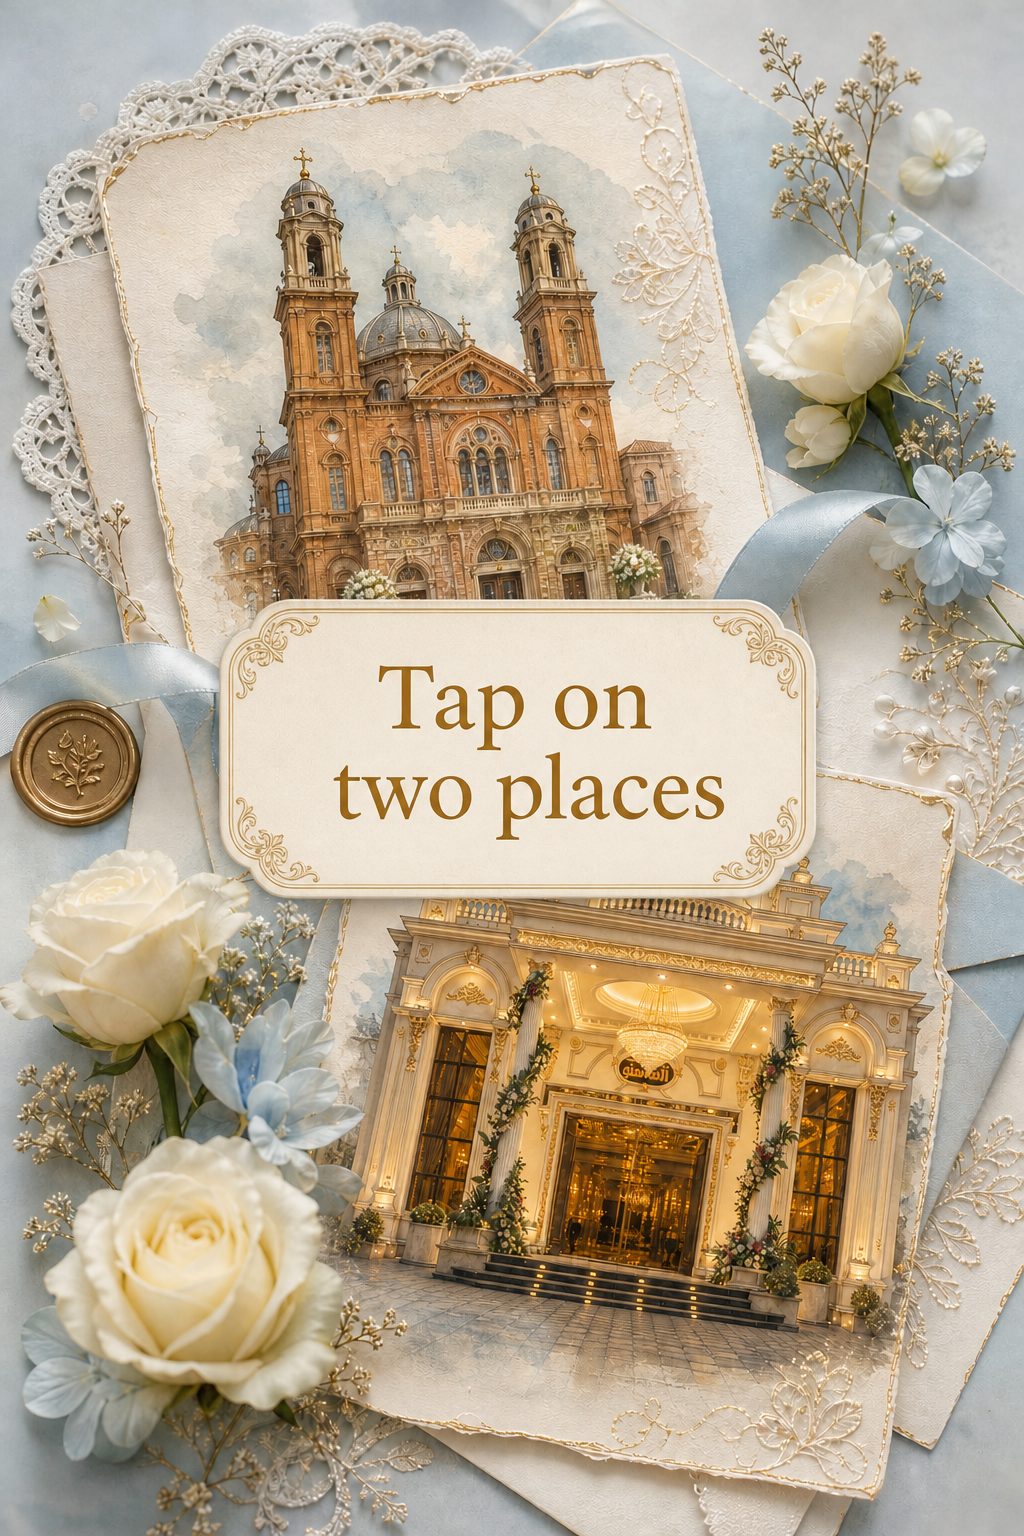
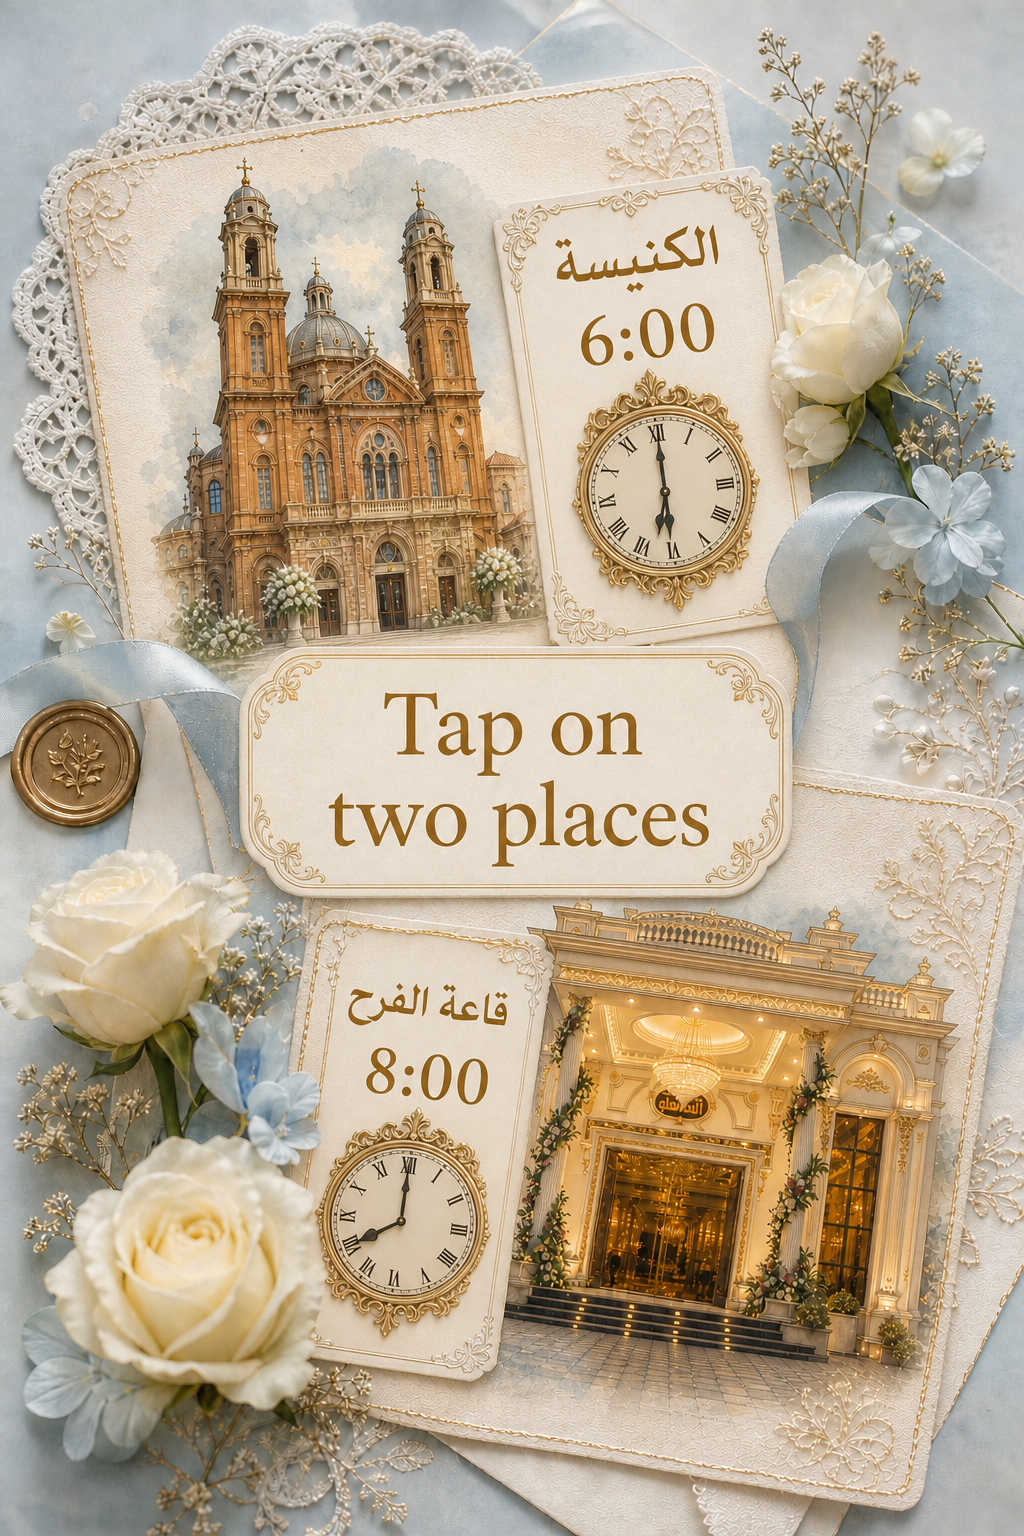
Add files via upload

diff --git a/index.html b/index.html
@@ -7,7 +7,7 @@
 <style>
 *{box-sizing:border-box}html,body{margin:0;padding:0;width:100%;min-height:100%;background:#101b36;font-family:Georgia,"Times New Roman",serif}body{display:flex;justify-content:center;align-items:flex-start;min-height:100vh}.invitation-wrapper{position:relative;width:100%;max-width:480px;min-height:100vh;margin:0 auto;overflow:hidden;background:#dce6f3}
 .envelope-screen{position:absolute;inset:0;z-index:10;display:flex;justify-content:center;align-items:center;background:#101b36;cursor:pointer}.envelope-cover{display:block;width:100%;height:100%;object-fit:cover;object-position:center}.tap-to-open{position:absolute;left:50%;bottom:8%;transform:translateX(-50%);width:max-content;max-width:90%;padding:12px 22px;border:1px solid rgba(220,188,120,.85);border-radius:30px;color:#f7e6bf;background:rgba(16,27,54,.7);font-size:15px;letter-spacing:1px;text-align:center;animation:gentlePulse 2s ease-in-out infinite}@keyframes gentlePulse{0%,100%{opacity:.75}50%{opacity:1}}
-.envelope-video{position:absolute;inset:0;z-index:5;width:100%;height:100%;object-fit:cover;display:none;background:#101b36}.butterfly-screen{position:absolute;inset:0;z-index:7;display:none;flex-direction:column;align-items:center;justify-content:center;padding:24px;background:transparent;opacity:0}.butterfly-screen.visible{display:flex;animation:introFadeIn 1.2s ease forwards}.butterfly{display:block;width:55%;max-width:280px;height:auto;object-fit:contain;cursor:pointer;transform-origin:center;animation:butterflyEntrance 2s ease-out forwards,butterflyFloat 3s ease-in-out 2s infinite;filter:drop-shadow(0 8px 16px rgba(13,27,55,.2));-webkit-tap-highlight-color:transparent}@keyframes butterflyEntrance{0%{transform:scale(.15);opacity:0}70%{transform:scale(1.12);opacity:1}100%{transform:scale(1);opacity:1}}@keyframes butterflyFloat{0%,100%{translate:0 0}50%{translate:0 -12px}}.intro-message{margin-top:18px;padding:16px 22px;max-width:100%;border:1px solid rgba(183,148,83,.6);border-radius:12px;background:rgba(255,255,255,.9);color:#a7864b;text-align:center;font-size:clamp(21px,5vw,29px);line-height:1.35;letter-spacing:.5px;box-shadow:0 8px 25px rgba(16,27,54,.08)}.intro-hint{margin-top:14px;color:#fff7e8;font-family:Arial,sans-serif;font-size:13px;text-align:center;text-shadow:0 1px 6px rgba(16,27,54,.8);animation:gentlePulse 2s ease-in-out infinite}.butterfly-screen.leaving{animation:introFadeOut .8s ease forwards;pointer-events:none}@keyframes introFadeIn{from{opacity:0}to{opacity:1}}@keyframes introFadeOut{from{opacity:1}to{opacity:0}}
+.envelope-video{position:absolute;inset:0;z-index:5;width:100%;height:100%;object-fit:cover;display:none;background:#101b36}.butterfly-screen{position:absolute;inset:0;z-index:7;display:none;flex-direction:column;align-items:center;justify-content:center;padding:24px;background:transparent;opacity:0}.butterfly-screen.visible{display:flex;animation:introFadeIn 1.2s ease forwards}.butterfly{display:block;width:72%;max-width:390px;max-height:48vh;height:auto;object-fit:contain;cursor:pointer;transform-origin:center;animation:butterflyEntrance 2s ease-out forwards,butterflyFloat 4.2s ease-in-out 2s infinite;filter:drop-shadow(0 12px 24px rgba(13,27,55,.28));-webkit-tap-highlight-color:transparent;will-change:translate,rotate,transform}@keyframes butterflyEntrance{0%{transform:scale(.15);opacity:0}70%{transform:scale(1.16);opacity:1}100%{transform:scale(1);opacity:1}}@keyframes butterflyFloat{0%,100%{translate:0 0;rotate:-5deg}20%{translate:22px -28px;rotate:4deg}45%{translate:-18px -48px;rotate:-2deg}70%{translate:-26px -16px;rotate:6deg}85%{translate:12px -38px;rotate:0deg}}.intro-message{margin-top:18px;padding:16px 22px;max-width:100%;border:1px solid rgba(183,148,83,.6);border-radius:12px;background:rgba(255,255,255,.9);color:#a7864b;text-align:center;font-size:clamp(21px,5vw,29px);line-height:1.35;letter-spacing:.5px;box-shadow:0 8px 25px rgba(16,27,54,.08)}.intro-hint{margin-top:14px;color:#fff7e8;font-family:Arial,sans-serif;font-size:13px;text-align:center;text-shadow:0 1px 6px rgba(16,27,54,.8);animation:gentlePulse 2s ease-in-out infinite}.butterfly-screen.leaving{animation:introFadeOut .8s ease forwards;pointer-events:none}@keyframes introFadeIn{from{opacity:0}to{opacity:1}}@keyframes introFadeOut{from{opacity:1}to{opacity:0}}
 .invitation-screen{display:none;width:100%;height:100vh;height:100dvh;overflow:hidden;background:#dce6f3}.invitation-screen.visible{display:block}.invitation-scroll{width:100%;height:100%;overflow-y:auto;overflow-x:hidden;overscroll-behavior:contain;scroll-behavior:smooth;scrollbar-width:none;-ms-overflow-style:none}.invitation-scroll::-webkit-scrollbar{display:none;width:0;height:0}.invitation-scene{display:block;width:100%;height:auto;margin:0;padding:0;line-height:0}.invitation-scene img{display:block;width:100%;height:auto;margin:0;padding:0}
 .locations-scene{display:block;position:relative;width:100%;margin:0;padding:0;background:#f7f3eb;opacity:1;transform:none;animation:none}.locations-image-wrap{position:relative;display:block;width:100%;margin:0;padding:0;line-height:0;overflow:hidden}.locations-image{display:block;width:100%;height:auto;margin:0;padding:0}.location-link{position:absolute;display:block;z-index:2;background:transparent;border:none;text-decoration:none;cursor:pointer;-webkit-tap-highlight-color:transparent}.church-link{top:0;left:0;width:52%;height:48%}.venue-link{right:0;bottom:0;width:52%;height:48%}.location-link::after{content:"";position:absolute;inset:5px;border:1px solid rgba(183,148,83,0);border-radius:12px;transition:border-color .3s ease,background-color .3s ease,box-shadow .3s ease}.location-link:hover::after,.location-link:focus-visible::after{border-color:rgba(183,148,83,.8);background:rgba(183,148,83,.06);box-shadow:inset 0 0 15px rgba(183,148,83,.1)}.location-link:focus-visible{outline:none}
 .countdown-scene{position:relative;display:flex;align-items:center;justify-content:center;width:100%;min-height:100vh;min-height:100svh;padding:65px 24px;overflow:hidden;isolation:isolate;background:radial-gradient(ellipse at 50% 45%,#fbfaf5 0%,#e8edf5 45%,#b5c7df 100%)}.countdown-letters{position:absolute;inset:0;z-index:-1;overflow:hidden;pointer-events:none}.bg-letter{position:absolute;display:block;width:145px;height:100px;background:linear-gradient(145deg,#fffef9 0%,#f2eee3 100%);border:1px solid rgba(179,148,80,.65);box-shadow:0 12px 25px rgba(30,51,83,.12),inset 0 0 18px rgba(179,148,80,.08);opacity:.82}.bg-letter::before{content:"";position:absolute;inset:0;background:linear-gradient(145deg,transparent 49.5%,rgba(179,148,80,.5) 50%,transparent 50.8%),linear-gradient(215deg,transparent 49.5%,rgba(179,148,80,.5) 50%,transparent 50.8%)}.bg-letter::after{content:"✦";position:absolute;left:50%;top:50%;display:flex;align-items:center;justify-content:center;width:23px;height:23px;transform:translate(-50%,-50%);color:#fff5d9;background:#b99a5b;border-radius:50%;font-size:11px;box-shadow:0 2px 5px rgba(60,43,15,.15)}.bg-letter-1{top:5%;left:-32px;transform:rotate(-17deg)}.bg-letter-2{top:9%;right:-44px;transform:rotate(15deg) scale(.85)}.bg-letter-3{top:36%;left:-76px;transform:rotate(12deg) scale(.8)}.bg-letter-4{top:42%;right:-62px;transform:rotate(-13deg) scale(.9)}.bg-letter-5{bottom:9%;left:-37px;transform:rotate(14deg) scale(.88)}.bg-letter-6{bottom:5%;right:-40px;transform:rotate(-16deg)}.countdown-scene::before,.countdown-scene::after{content:"✧";position:absolute;color:rgba(183,148,83,.7);font-size:25px;pointer-events:none;z-index:0}.countdown-scene::before{top:23%;left:12%}.countdown-scene::after{right:12%;bottom:22%}
@@ -27,7 +27,7 @@
 <section class="invitation-scene"><img src="invitation.png" alt="Micheal and Lydia wedding invitation"></section>
 <section class="invitation-scene"><img src="invitation2.png" alt="Wedding invitation details"></section>
 <section class="locations-scene" id="locationsScene"><div class="locations-image-wrap"><img src="locations.png" alt="Church and wedding reception locations" class="locations-image"><a class="location-link church-link" href="https://maps.app.goo.gl/SVxLquuqmNgGK9Ur6" target="_blank" rel="noopener noreferrer" aria-label="Open church location in Google Maps" title="Church location"></a><a class="location-link venue-link" href="https://maps.app.goo.gl/zbTqNNJUPJiiJNr6A" target="_blank" rel="noopener noreferrer" aria-label="Open wedding reception location in Google Maps" title="Wedding reception location"></a></div></section>
-<section class="countdown-scene" id="countdown"><div class="countdown-letters" aria-hidden="true"><div class="bg-letter bg-letter-1"></div><div class="bg-letter bg-letter-2"></div><div class="bg-letter bg-letter-3"></div><div class="bg-letter bg-letter-4"></div><div class="bg-letter bg-letter-5"></div><div class="bg-letter bg-letter-6"></div></div><div class="countdown-letter"><div class="letter-ornament ornament-top">✧ ❦ ✧</div><div class="letter-flap"></div><div class="letter-content"><p class="countdown-eyebrow">OUR SPECIAL DAY</p><h2 class="countdown-title">The Day Our<br>Forever Begins</h2><div class="gold-divider"><span>✦</span></div><div class="countdown-grid"><div class="countdown-unit"><div class="countdown-number" id="countdownDays">000</div><span>DAYS</span></div><div class="countdown-separator">:</div><div class="countdown-unit"><div class="countdown-number" id="countdownHours">00</div><span>HOURS</span></div><div class="countdown-separator">:</div><div class="countdown-unit"><div class="countdown-number" id="countdownMinutes">00</div><span>MINUTES</span></div><div class="countdown-separator">:</div><div class="countdown-unit"><div class="countdown-number" id="countdownSeconds">00</div><span>SECONDS</span></div></div><div class="countdown-bottom-ornament">❦</div><p class="countdown-names">Micheal <span>&amp;</span> Lydia</p><p class="countdown-date">NOVEMBER 5, 2026 · 7:00 PM</p><p class="countdown-message">Two hearts, one beautiful beginning.</p></div><div class="letter-ornament ornament-bottom">✧ ❦ ✧</div></div></section>
+<section class="countdown-scene" id="countdown"><div class="countdown-letters" aria-hidden="true"><div class="bg-letter bg-letter-1"></div><div class="bg-letter bg-letter-2"></div><div class="bg-letter bg-letter-3"></div><div class="bg-letter bg-letter-4"></div><div class="bg-letter bg-letter-5"></div><div class="bg-letter bg-letter-6"></div></div><div class="countdown-letter"><div class="letter-ornament ornament-top">✧ ❦ ✧</div><div class="letter-flap"></div><div class="letter-content"><p class="countdown-eyebrow">OUR SPECIAL DAY</p><h2 class="countdown-title">The Day Our<br>Forever Begins</h2><div class="gold-divider"><span>✦</span></div><div class="countdown-grid"><div class="countdown-unit"><div class="countdown-number" id="countdownDays">000</div><span>DAYS</span></div><div class="countdown-separator">:</div><div class="countdown-unit"><div class="countdown-number" id="countdownHours">00</div><span>HOURS</span></div><div class="countdown-separator">:</div><div class="countdown-unit"><div class="countdown-number" id="countdownMinutes">00</div><span>MINUTES</span></div><div class="countdown-separator">:</div><div class="countdown-unit"><div class="countdown-number" id="countdownSeconds">00</div><span>SECONDS</span></div></div><div class="countdown-bottom-ornament">❦</div><p class="countdown-names">Micheal <span>&amp;</span> Lydia</p><p class="countdown-date">NOVEMBER 5, 2026</p><p class="countdown-message">Two hearts, one beautiful beginning.</p></div><div class="letter-ornament ornament-bottom">✧ ❦ ✧</div></div></section>
 <!-- Guestbook: clicking the image opens the message form -->
 <section class="guestbook-scene" id="guestbook"><button type="button" class="guestbook-image-button" id="guestbookImageButton" aria-label="Write a wedding wish" aria-expanded="false" aria-controls="guestbookForm"><img src="guestbook.png" alt="اكتبولنا دعوة حلوة" class="guestbook-image"></button><div class="guestbook-content"><h2 class="guestbook-heading">Leave Us a Lovely Wish</h2><p class="guestbook-description">Your sweet words will be a beautiful memory for Micheal &amp; Lydia.</p><form class="guestbook-form" id="guestbookForm"><input type="text" class="guestbook-name" id="guestbookName" maxlength="50" placeholder="اكتب اسمك 💙" aria-label="اسمك" autocomplete="name" required><textarea class="guestbook-textarea" id="guestbookMessage" maxlength="300" placeholder="اكتبولنا دعوة حلوة من قلبكم..." aria-label="Your wedding wish" required></textarea><button type="submit" class="guestbook-submit" id="guestbookSubmit">إرسال الرسالة 💌</button><div class="guestbook-status" id="guestbookStatus" role="status" aria-live="polite"></div></form><div class="guestbook-divider"></div><h3 class="guestbook-comments-title">رسائل من القلب 💙</h3><div class="guestbook-comments" id="guestbookComments" aria-live="polite"><p class="guestbook-empty">جاري تحميل الرسائل...</p></div></div></section>
 </div></main>
@@ -47,8 +47,8 @@ envelopeVideo.addEventListener("ended",showButterflyScreen);
 function showButterflyScreen(){envelopeVideo.pause();envelopeVideo.style.display="block";butterflyScreen.classList.add("visible")}
 let butterflyClicked=false;
 butterfly.addEventListener("click",function(){if(butterflyClicked)return;butterflyClicked=true;butterflyScreen.classList.add("leaving");setTimeout(function(){butterflyScreen.style.display="none";envelopeVideo.style.display="none";invitationScreen.classList.add("visible");document.body.style.background="#dce6f3"},800)});
-/* Live wedding countdown */
-const weddingDate=new Date("2026-11-05T19:00:00+02:00").getTime();
+/* Live wedding countdown to November 5, 2026 */
+const weddingDate=new Date("2026-11-05T00:00:00+02:00").getTime();
 const countdownElements={days:document.getElementById("countdownDays"),hours:document.getElementById("countdownHours"),minutes:document.getElementById("countdownMinutes"),seconds:document.getElementById("countdownSeconds")};
 let countdownFinished=false;
 function updateCountdown(){const difference=weddingDate-Date.now();if(difference<=0){countdownElements.days.textContent="000";countdownElements.hours.textContent="00";countdownElements.minutes.textContent="00";countdownElements.seconds.textContent="00";if(!countdownFinished){countdownFinished=true;const message=document.querySelector(".countdown-message");if(message)message.textContent="Today, two hearts become one."}return}const days=Math.floor(difference/(1000*60*60*24));const hours=Math.floor((difference/(1000*60*60))%24);const minutes=Math.floor((difference/(1000*60))%60);const seconds=Math.floor((difference/1000)%60);const values={days:String(days).padStart(3,"0"),hours:String(hours).padStart(2,"0"),minutes:String(minutes).padStart(2,"0"),seconds:String(seconds).padStart(2,"0")};Object.keys(values).forEach(function(key){const element=countdownElements[key];if(element&&element.textContent!==values[key]){element.textContent=values[key];element.classList.remove("changed");void element.offsetWidth;element.classList.add("changed")}})}
